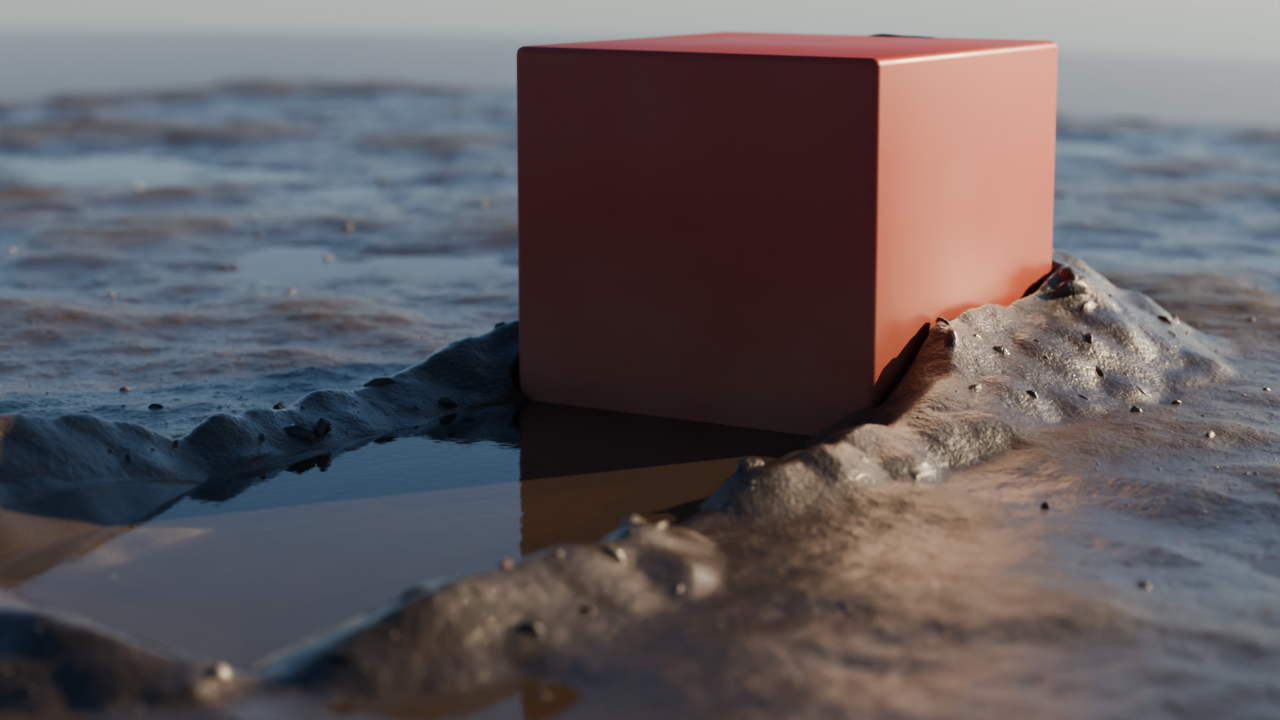
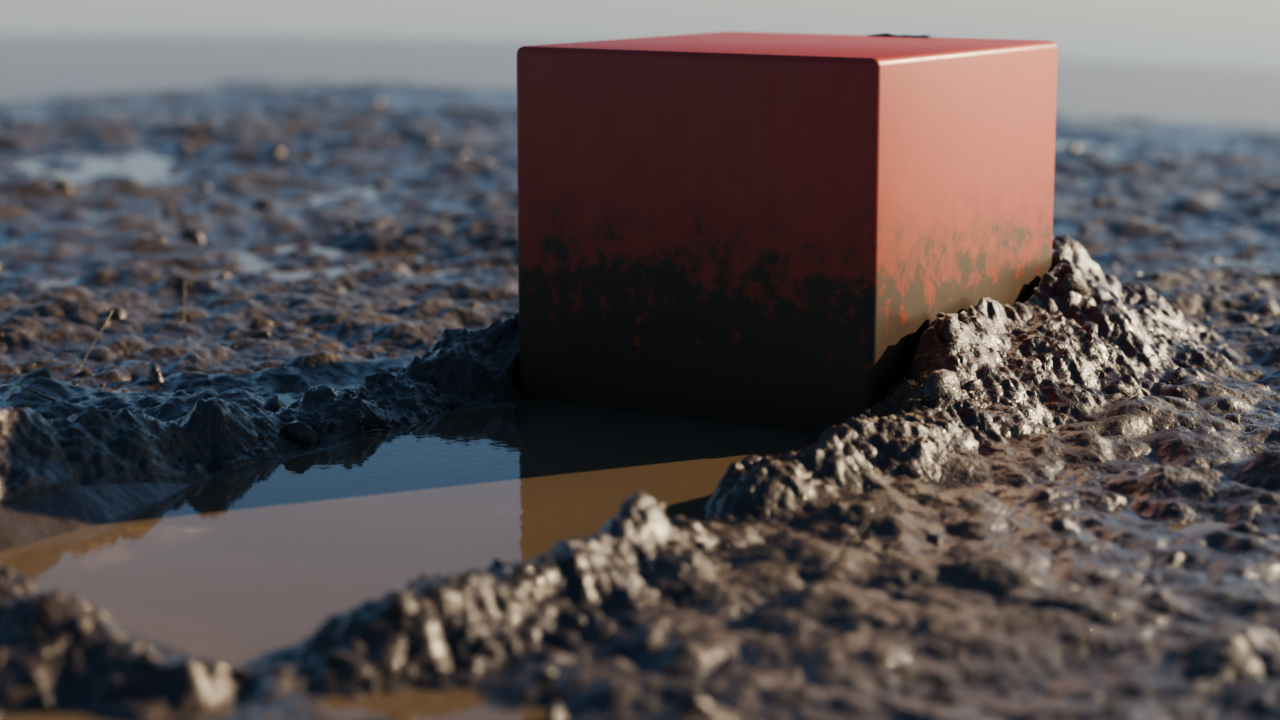
feat(mud): klumpiger, aufgewuehlter Schlamm nach Referenz
Klumpenrelief ueberall (billowed noise), Faltenwurf auf Wuelsten, Klumpen und
Strohhalme als Meshes, Wasserfilm folgt den Kruemeln (Glanzpunkte), Pfuetzen
milchig-braun. Hero-Szene: Schlammspritzer an der Box. Version 0.4.1 (#7)

diff --git a/groundfx/core/nodegroups/ng_surface.py b/groundfx/core/nodegroups/ng_surface.py
@@ -166,7 +166,7 @@ def _surround(g, size, height, viewport):
 
 
 def _lumps(g, surface, density, material, *, seed, r_min, r_max, power,
-           sink, flat, rough, pebble):
+           sink, flat, rough, pebble, stretch=1.0, pebble_id=None):
     """Scatter small irregular meshes on ``surface`` (crumbs or pebbles).
 
     ``density`` is a field in points per square metre. Sizes follow a power
@@ -192,7 +192,7 @@ def _lumps(g, surface, density, material, *, seed, r_min, r_max, power,
                        data_type="FLOAT_VECTOR"),
                 "Value")
     rot = g.out(g.node("FunctionNodeEulerToRotation", {0: rot}), 0)
-    squash = g.vec(radius * g.random(seed + 23, 0.75, 1.25, ident),
+    squash = g.vec(radius * stretch * g.random(seed + 23, 0.75, 1.25, ident),
                    radius * g.random(seed + 24, 0.75, 1.25, ident),
                    radius * g.random(seed + 25, flat * 0.6, flat, ident))
     iop = g.node("GeometryNodeInstanceOnPoints",
@@ -200,8 +200,9 @@ def _lumps(g, surface, density, material, *, seed, r_min, r_max, power,
                   "Rotation": rot, "Scale": squash})
     inst = g.store(g.out(iop, 0), _ATTR_CRUMB, radius, domain="INSTANCE")
     if pebble:
-        inst = g.store(inst, ATTR_PEBBLE, g.random(seed + 26, 0.05, 1.0, ident),
-                       domain="INSTANCE")
+        pid = (g.random(seed + 26, 0.05, 0.94, ident) if pebble_id is None
+               else pebble_id)
+        inst = g.store(inst, ATTR_PEBBLE, pid, domain="INSTANCE")
     mesh = g.out(g.node("GeometryNodeRealizeInstances", {"Geometry": inst}), 0)
     # break the sphere: push vertices in and out along their normal
     lump = g.out(g.node("ShaderNodeTexNoise",
@@ -277,8 +278,13 @@ def build(name: str = NG_SURFACE, element: str = ELEM_SAND):
         # tracks stay smooth.
         und = sfn.mud_undulation(g, p2) * I(IN_UNDULATION)
         pock = sfn.mud_pocks(g, p2) * (0.0006 * (1.0 - comp)) * geo_w
-        lobe = (sfn.mud_lobes(g, p2) - 0.35) * w_clod * (I(IN_CLOD_HEIGHT) * 2.0)
-        dz = dz + und + pock + lobe
+        # churned ground everywhere, calmer where it was packed flat and a
+        # little calmer in the hollows, where water has slumped the clods
+        calm = (1.0 - comp * 0.9) * geo_w
+        clod = sfn.mud_clods(g, p2) * calm * (I(IN_CLOD_HEIGHT) * 1.7)
+        lobe = (sfn.mud_lobes(g, p2) - 0.35) * w_clod * (I(IN_CLOD_HEIGHT) * 3.0)
+        wrinkle = sfn.mud_wrinkles(g, p2) * w_clod * (I(IN_CLOD_HEIGHT) * 0.5)
+        dz = dz + und + pock + clod + lobe + wrinkle
     else:
         rip = sfn.ripple_height(g, p2, I(IN_RIPPLE_LENGTH), I(IN_WIND))
         w_rip = sfn.smoothstep(1.0 - dist * 1.6) * (1.0 - comp) * geo_w
@@ -298,9 +304,13 @@ def build(name: str = NG_SURFACE, element: str = ELEM_SAND):
     # ---- crumbs ---------------------------------------------------------------------
     if mud:
         # splatter: flat, half-sunk clots thrown off by the object
-        crumbs = _lumps(g, surface, I(IN_CRUMBS) * 0.12 * g.attr(_ATTR_LOOSE),
-                        I(IN_MATERIAL), seed=3, r_min=0.002, r_max=0.013,
-                        power=3.0, sink=0.55, flat=0.42, rough=0.5, pebble=False)
+        # clots everywhere (more where churned), none on packed tracks
+        clots = (I(IN_CRUMBS) * 0.1 * (0.4 + g.attr(_ATTR_LOOSE))
+                 * g.attr(ATTR_GEO).gt(0.5)
+                 * (1.0 - g.attr(ATTR_COMP).clamp(0.0, 1.0)))
+        crumbs = _lumps(g, surface, clots,
+                        I(IN_MATERIAL), seed=3, r_min=0.0015, r_max=0.012,
+                        power=3.5, sink=0.45, flat=0.55, rough=0.8, pebble=False)
     else:
         crumbs = _lumps(g, surface, I(IN_CRUMBS) * g.attr(_ATTR_LOOSE),
                         I(IN_MATERIAL), seed=3, r_min=_CRUMB_MIN,
@@ -315,6 +325,12 @@ def build(name: str = NG_SURFACE, element: str = ELEM_SAND):
                      sink=0.45, flat=0.6, rough=1.2, pebble=True)
     out = b.add("GeometryNodeJoinGeometry")
     if mud:
+        # a few stalks of straw and root: thin, long, lying flat
+        straw = _lumps(g, surface, I(IN_PEBBLES) * 0.12 * g.attr(ATTR_GEO).gt(0.5),
+                       I(IN_MATERIAL), seed=70, r_min=0.0005, r_max=0.0011,
+                       power=1.0, sink=0.1, flat=1.0, rough=0.25, pebble=True,
+                       stretch=32.0, pebble_id=0.98)
+        g.feed(out, 0, straw)
         # Standing water: one level sheet at the water table. The mud is a
         # height field, so the sheet only shows where the mud lies below it:
         # in natural hollows and in every track an object leaves.

diff --git a/groundfx/core/materials/mat_mud.py b/groundfx/core/materials/mat_mud.py
@@ -69,7 +69,8 @@ def build(tree, ctrl) -> None:
     lumps = _noise(g, Ps, 9.0, 6.0, 0.55, 0.4)
     folds = _noise(g, Ps, 38.0, 4.0, 0.5)
     fine = _noise(g, P, 420.0, 4.0, 0.65)
-    height = lumps * 0.55 + folds * 0.3 + fine * 0.15
+    crumb = _noise(g, P, 140.0, 4.0, 0.7)
+    height = lumps * 0.4 + folds * 0.3 + crumb * 0.2 + fine * 0.1
 
     # ---- local wetness --------------------------------------------------------
     # slider sets the level; the shore band and worked mud push it up, high
@@ -114,9 +115,9 @@ def build(tree, ctrl) -> None:
 
     # ---- film: patchy clear coat ---------------------------------------------------
     patch = _noise(g, Ps, 55.0, 3.0, 0.6)
-    film = sfn.smoothstep((local - 0.35 - (patch - 0.5) * 0.5) / 0.3)
+    film = sfn.smoothstep((local - 0.22 - (patch - 0.5) * 0.5) / 0.3)
     film = (film * (1.0 - dryness)).max(shore * shore)
-    coat_rough = (0.035 + (1.0 - soaked) * 0.16 + fine * 0.05).clamp(0.02, 0.5)
+    coat_rough = (0.03 + (1.0 - soaked) * 0.07 + fine * 0.05).clamp(0.02, 0.5)
 
     roughness = g.mix(rough * 0.95, rough * 0.6, soaked)
     roughness = g.mix(roughness, 0.95, dryness)
@@ -124,8 +125,8 @@ def build(tree, ctrl) -> None:
 
     # ---- normal -----------------------------------------------------------------------
     bump = g.node("ShaderNodeBump",
-                  {"Strength": 0.4 * (1.0 - comp * 0.5),
-                   "Distance": 0.005 * detail, "Height": height})
+                  {"Strength": 0.9 * (1.0 - comp * 0.5),
+                   "Distance": 0.006 * detail, "Height": height})
     bump_c = g.node("ShaderNodeBump",
                     {"Strength": 0.8, "Distance": 0.0012, "Height": crack * -1.0,
                      "Normal": g.out(bump, "Normal")})
@@ -133,9 +134,12 @@ def build(tree, ctrl) -> None:
                     {"Strength": 0.45, "Distance": 0.0005,
                      "Height": grit + fine * 0.35 * detail,
                      "Normal": g.out(bump_c, "Normal")})
-    # the film is water: it levels the fine relief and keeps only the swell
+    # The film follows the crumbs (it is thin), only the finest grit is
+    # levelled. Thousands of tiny wet facets: that is the sparkle of wet soil.
     coat_bump = g.node("ShaderNodeBump",
-                       {"Strength": 0.35, "Distance": 0.004, "Height": lumps})
+                       {"Strength": 0.8 * (1.0 - comp * 0.5),
+                        "Distance": 0.006 * detail,
+                        "Height": lumps * 0.45 + folds * 0.3 + crumb * 0.25})
 
     bsdf = g.node("ShaderNodeBsdfPrincipled",
                   {"Base Color": col, "Roughness": roughness, "IOR": 1.5,
@@ -167,10 +171,10 @@ def build_water(tree) -> None:
                    "Height": swell * 0.8 + shiver * 0.2})
     # suspended silt: the water is not clear, it scatters brown
     cloud = _noise(g, P2, 6.0, 3.0)
-    murk = g.vec(0.115, 0.082, 0.050) * (0.8 + cloud * 0.4)
+    murk = g.vec(0.21, 0.145, 0.082) * (0.8 + cloud * 0.4)
     bsdf = g.node("ShaderNodeBsdfPrincipled",
                   {"Base Color": murk, "Roughness": 0.015, "IOR": 1.333,
-                   "Transmission Weight": 0.55,
+                   "Transmission Weight": 0.3,
                    "Normal": g.out(bump, "Normal")})
     # shadow rays pass: the mud under shallow water is lit, not blacked out
     lp = b.add("ShaderNodeLightPath")

diff --git a/dev/hero_scene.py b/dev/hero_scene.py
@@ -97,7 +97,7 @@ def setup_world(scene, sun_elev_deg=22.0, sun_rot_deg=120.0, strength=0.06,
     scene.view_settings.exposure = exposure
 
 
-def make_box(size=0.2):
+def make_box(size=0.2, mud=False):
     import bmesh
     me = bpy.data.meshes.new("HeroBox")
     bm = bmesh.new()
@@ -145,6 +145,20 @@ def make_box(size=0.2):
     L(mix.outputs[2], bsdf.inputs["Base Color"])
     L(n1.outputs[0], rr.inputs["Value"])
     L(rr.outputs[0], bsdf.inputs["Roughness"])
+    if mud:
+        # splatter: scene dressing only, the solver does not coat flanks yet
+        n1.inputs["Scale"].default_value = 60.0
+        n1.inputs["Roughness"].default_value = 0.75
+        ramp.inputs["From Max"].default_value = 0.10
+        ramp.inputs["To Min"].default_value = 3.6
+        ramp.inputs["To Max"].default_value = 0.0
+        mix.inputs[7].default_value = (0.065, 0.042, 0.025, 1.0)
+        pw = nt.nodes.new("ShaderNodeMath")
+        pw.operation = "POWER"
+        pw.inputs[1].default_value = 5.0
+        pw.use_clamp = True
+        L(mul.outputs[0], pw.inputs[0])
+        L(pw.outputs[0], mix.inputs[0])
     me.materials.append(mat)
     return obj
 
@@ -217,7 +231,7 @@ def build(element="SAND", quality="HIGH", size=1.2, cam="close", grains=False,
     domain.groundfx.surround = surround
 
     h = domain.groundfx.material_height
-    box = make_box(0.2)
+    box = make_box(0.2, mud=element == "MUD")
     scene.collection.objects.link(box)
     coll = ensure_collider_collection(bpy.context, domain)
     coll.objects.link(box)

diff --git a/groundfx/core/surface_fn.py b/groundfx/core/surface_fn.py
@@ -92,6 +92,24 @@ def mud_pocks(g, P):
     return (_noise(g, P, scale=70.0, detail=4.0, roughness=0.6) * 4.0).clamp(-1.5, 1.5)
 
 
+def mud_clods(g, P):
+    """Churned, cloddy ground: fist-sized clumps with crumbly crests, about
+    -1..1. Billowed noise (absolute value) gives rounded clumps separated by
+    sharp creases, which is how wet soil breaks, instead of smooth hills."""
+    warp = g.vec(_noise(g, P, scale=7.0), _noise(g, P + (3.7, 1.3, 0.0), scale=7.0), 0.0)
+    Pw = P + warp * 0.05
+    big = (_noise(g, Pw, scale=13.0, detail=2.0, roughness=0.5) * 2.0).abs()
+    mid = (_noise(g, Pw, scale=38.0, detail=2.0, roughness=0.5) * 2.0).abs()
+    crumb = _noise(g, P, scale=120.0, detail=3.0, roughness=0.65)
+    return (big * 3.2 + mid * 1.0 + crumb * 0.35 - 0.3).clamp(-1.0, 1.5)
+
+
+def mud_wrinkles(g, P):
+    """Fine drag folds on squeezed mud, about -1..1."""
+    return ((_noise(g, P, scale=95.0, detail=2.0, roughness=0.5) * 2.0).abs() * 4.0
+            - 0.6).clamp(-1.0, 1.0)
+
+
 def mud_lobes(g, P):
     """Squeezed-out mud: rounded bulges with creases between them, about
     0..1. Smooth Voronoi gives the pillow shape viscous material takes when

diff --git a/tests/test_surface_mud.py b/tests/test_surface_mud.py
@@ -54,7 +54,11 @@ def _attr(obj, name):
 def _mud(size=1.0):
     from groundfx.ops.op_add import create_domain
     domain = create_domain(bpy.context, ELEM_MUD, size=size, surface=True)
-    domain.groundfx.pebbles = 0.0
+    domain.groundfx.pebbles = 0.0    # no pebbles, no straw
+    # no clots either: the tests below count and index the grid vertices
+    from groundfx.core import modifier_io
+    modifier_io.set_input(domain.modifiers[SURFACE_MODIFIER_NAME],
+                          nsurf.IN_CRUMBS, 0.0)
     bpy.context.scene.frame_set(1)
     return domain
 
@@ -151,5 +155,6 @@ def test_track_floods():
     far = np.abs(co[:, 1]) > 0.4
     harness.check("track behind the object is under water",
                   shore[track].mean() > 0.9, f"{shore[track].mean():.3f}")
-    harness.check("untouched level ground is less soaked than the track",
-                  shore[far].max() < 0.8, f"{shore[far].max():.3f}")
+    harness.check("untouched ground is clearly less soaked than the track",
+                  shore[far].mean() < shore[track].mean() - 0.2,
+                  f"{shore[far].mean():.3f} vs {shore[track].mean():.3f}")

diff --git a/groundfx/data/properties.py b/groundfx/data/properties.py
@@ -318,7 +318,7 @@ class GroundFXObjectSettings(bpy.types.PropertyGroup):
         description="A water table that fills hollows and every track")
 
     water_level: bpy.props.FloatProperty(
-        name="Water Level", default=-0.005, min=-1.0, max=1.0,
+        name="Water Level", default=-0.004, min=-1.0, max=1.0,
         subtype="DISTANCE", update=_sync_surface,
         description="Water table relative to the resting surface. Higher "
                     "floods more of the ground")

diff --git a/groundfx/core/materials/mat_sand.py b/groundfx/core/materials/mat_sand.py
@@ -63,6 +63,7 @@ STONES = (
     (0.62, (0.70, 0.66, 0.58)),   # shell / quartz
     (0.80, (0.33, 0.16, 0.10)),   # red jasper
     (0.90, (0.55, 0.50, 0.44)),   # light pebble
+    (0.96, (0.46, 0.36, 0.17)),   # straw / root (mud surface stage)
 )
 
 
